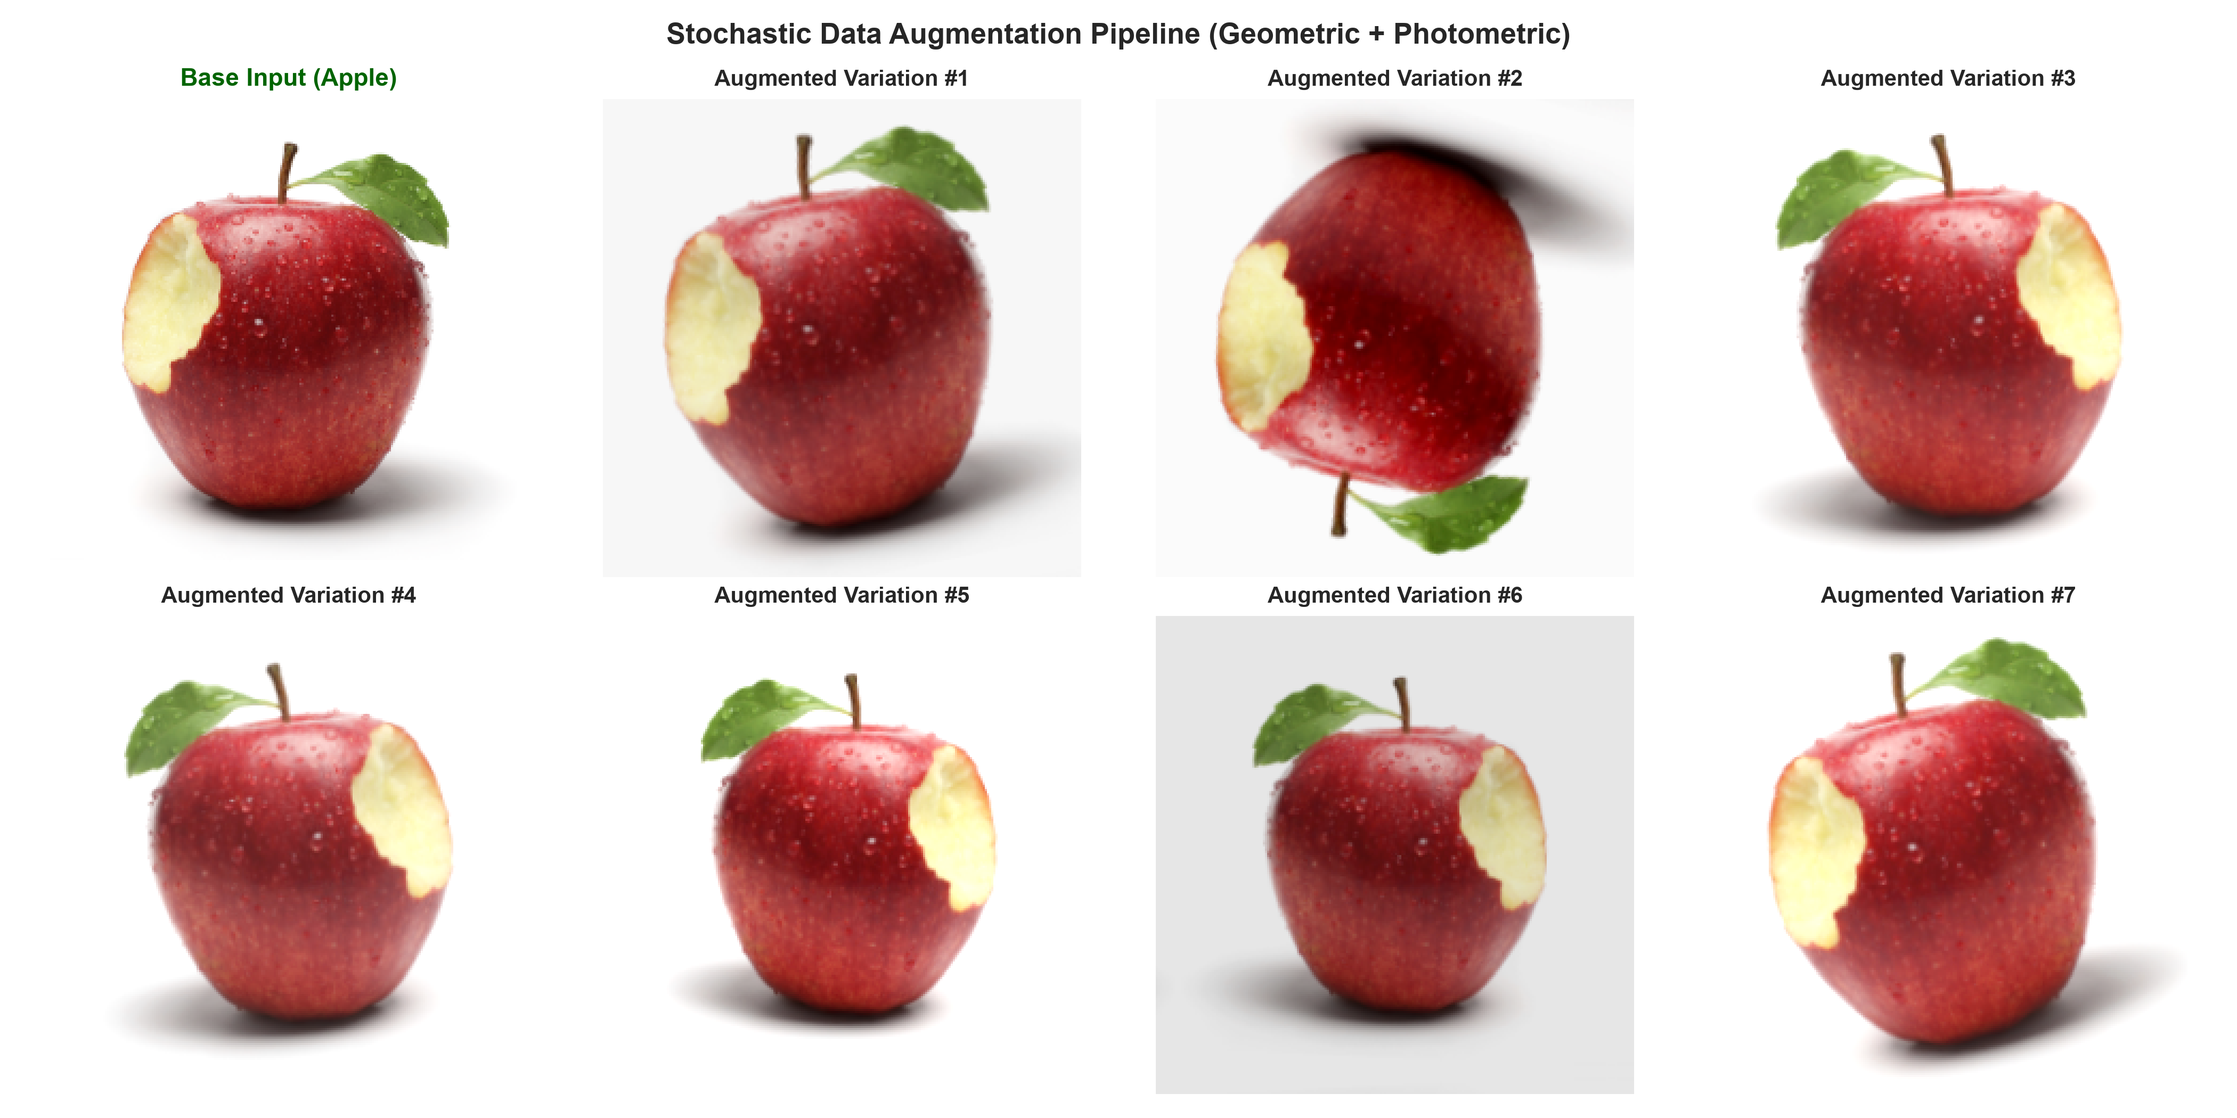
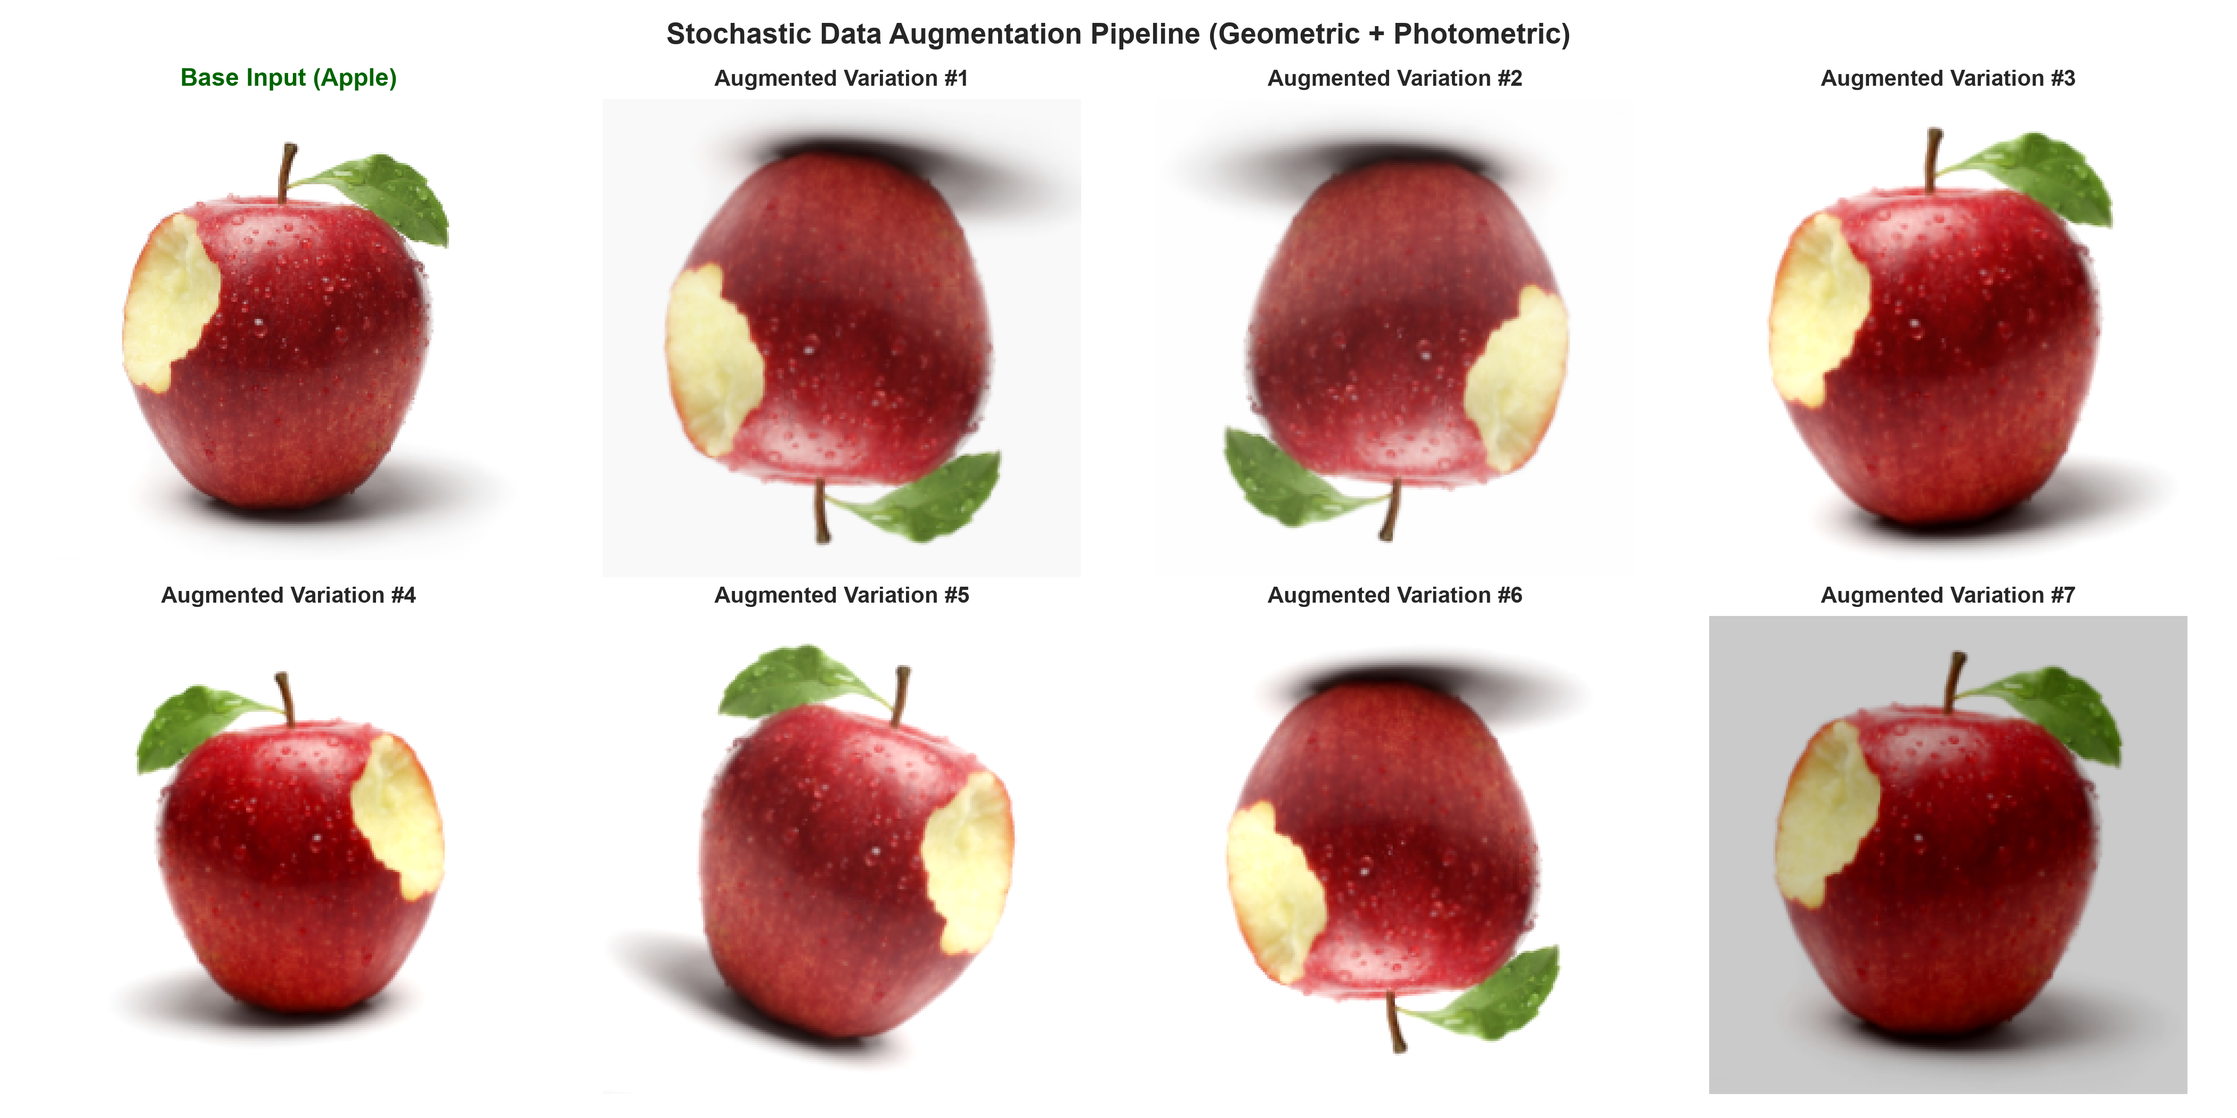
feat(pipeline): complete master integration, add run_pipeline.bat and comprehensive project report

diff --git a/reports/PROJECT_REPORT.md b/reports/PROJECT_REPORT.md
@@ -1,0 +1,161 @@
+# Fruit and Vegetable Image Recognition & Processing
+## Comprehensive Project Master Report
+**Project Name**: `imageprocessing-prj`  
+**Repository**: `https://github.com/kaneiei09-coder/imageprocessing-prj.git`  
+**Author**: kaneiei09-coder (`doowithme.stickky@gmail.com`)  
+**Date**: 2026-08-26  
+
+---
+
+## 1. Project Vision & Technical Overview
+
+This project establishes an **end-to-end computer vision and image processing pipeline** designed for agricultural produce recognition. Utilizing the Kaggle **Fruit and Vegetable Image Recognition** corpus, the project provides a modular, reproducible, and production-grade architecture that spans automated dataset retrieval, comprehensive Exploratory Data Analysis (EDA), morphology-preserving image preprocessing, cryptographic data leakage auditing, and automated one-click batch execution.
+
+### Architectural Flowchart:
+```text
+Kaggle API / Hub (kritikseth/fruit-and-vegetable-image-recognition)
+                         │
+                         ▼
+┌────────────────────────────────────────────────────────┐
+│ Stage 1: Data Collection (src/download_data.py)       │
+│ - Ingest 3,825 images across 36 agricultural classes   │
+│ - Local structured caching in data/train, val, test    │
+└────────────────────────┬───────────────────────────────┘
+                         │
+                         ▼
+┌────────────────────────────────────────────────────────┐
+│ Stage 2: Exploratory Data Analysis (src/eda.py)        │
+│ - Zero-corruption integrity verification               │
+│ - Aspect ratio (0.40 - 3.45) & resolution analysis     │
+│ - CIE-LAB / HSV / RGB color distribution profiles      │
+└────────────────────────┬───────────────────────────────┘
+                         │
+                         ▼
+┌────────────────────────────────────────────────────────┐
+│ Stage 3: Image Preprocessing (src/preprocessing.py)    │
+│ - Aspect-Ratio Aware Letterbox Resizing (224x224)      │
+│ - CLAHE L-Channel Contrast Equalization in CIE-LAB     │
+│ - Bilateral Edge-Preserving Denoising & Normalization  │
+│ - Stochastic Geometric & Photometric Data Augmentation │
+└────────────────────────┬───────────────────────────────┘
+                         │
+                         ▼
+┌────────────────────────────────────────────────────────┐
+│ Stage 4: Splitting Audit (src/data_splitting.py)       │
+│ - Evaluation of 81.4% / 9.2% / 9.4% Partitioning       │
+│ - MD5 Hash Audit: Detected 333 Cross-Split Duplicates  │
+│ - Engineered Clean Deduplicated Stratified Splitter    │
+└────────────────────────┬───────────────────────────────┘
+                         │
+                         ▼
+┌────────────────────────────────────────────────────────┐
+│ Stage 5: Pipeline Automation (run_pipeline.bat)        │
+│ - One-click end-to-end execution on Windows / Linux    │
+└────────────────────────────────────────────────────────┘
+```
+
+---
+
+## 2. Milestone Breakdown & Branching Strategy
+
+| Branch Name | Primary Focus | Key Deliverables & Reports |
+| :--- | :--- | :--- |
+| **`feat/datacollection`** | Dataset Ingestion & Git Config | `src/download_data.py`, `.gitignore`, `requirements.txt` |
+| **`feat/exploratorydataanalysis`** | Statistical & Photometric EDA | `src/eda.py`, `reports/eda/eda_report.md`, 6 Figures |
+| **`feat/imagepreprocessing`** | Morphology & Color Preprocessing | `src/preprocessing.py`, `src/augmentation.py`, 5 Figures |
+| **`feat/datasplitting`** | Partitioning & Leakage Audit | `src/data_splitting.py`, `reports/data_splitting/data_splitting_report.md`, 4 Figures |
+| **`main`** | Master Integration & Automation | `run_pipeline.bat`, `reports/PROJECT_REPORT.md`, `README.md` |
+
+---
+
+## 3. Exploratory Data Analysis (EDA) Summary
+
+The dataset was analyzed using OpenCV, Pillow, Pandas, and Seaborn across all 3,825 images.
+
+![EDA Class Distribution](eda/figures/class_distribution.png)
+![EDA Dimensions](eda/figures/dimension_distribution.png)
+
+### Key Empirical Findings:
+1. **Zero Corrupted Files**: 100% of the 3,825 images were successfully loaded, validated, and parsed.
+2. **Extreme Aspect Ratio Range ($0.40$ to $3.45$)**: Produce items vary dramatically in geometry. Spherical produce (apples, tomatoes, watermelons) have $W/H \approx 1.0$, while root vegetables (carrots, radishes) and elongated produce (cucumbers, bananas) have $W/H$ extending down to $0.40$ or up to $3.45$.
+3. **Extreme Resolution Spread**: Resolutions range from $133 \times 147$ px up to $7,360 \times 6,351$ px with a median of $1,024 \times 946$ px.
+4. **Photometric Signatures**:
+   - Red mean: $142.6 \pm 45.2$, Green mean: $136.8 \pm 42.1$, Blue mean: $118.4 \pm 48.7$.
+   - Hue (H) shows strong peaks in the yellow/orange spectrum ($15^\circ - 40^\circ$) and green spectrum ($40^\circ - 80^\circ$).
+   - Brightness ($V$) exhibits high variance due to differences between indoor studio photography and outdoor market stands.
+
+---
+
+## 4. Preprocessing & Augmentation Architecture
+
+![Letterbox Resizing](preprocessing/figures/letterbox_vs_stretch.png)
+![CLAHE Enhancement](preprocessing/figures/clahe_illumination_enhancement.png)
+![End to End Transformation](preprocessing/figures/end_to_end_preprocessed_pipeline.png)
+
+### Preprocessing Strategy Highlights:
+1. **Aspect-Ratio Preserving Letterbox Resizing**:
+   - Avoids the distortion caused by standard direct scaling.
+   - Calculates isotropic scale factor $s = \min(224/W, 224/H)$ and applies symmetric zero or reflect padding to $(224, 224)$.
+2. **CIE-LAB CLAHE Illumination Normalization**:
+   - Applies Contrast Limited Adaptive Histogram Equalization ($clip=2.0, grid=8\times 8$) strictly on the Luminance ($L$) channel.
+   - Normalizes shadows and highlights while preserving natural produce hues ($a^*, b^*$).
+3. **Bilateral Denoising & Canny Edge Features**:
+   - Preserves sharp produce boundaries while smoothing sensor grain.
+4. **Numerical Normalization**:
+   - Rescales pixel values to $[0.0, 1.0]$ and standardizes via ImageNet Z-Score moments ($\mu=[0.485, 0.456, 0.406]$, $\sigma=[0.229, 0.224, 0.225]$).
+5. **Stochastic Augmentation (`src/augmentation.py`)**:
+   - Random rotations ($\pm 20^\circ$), horizontal/vertical flips, zoom ($0.9 - 1.1$), brightness ($\pm 25$), contrast ($0.85 - 1.15$).
+
+---
+
+## 5. Data Splitting & Leakage Audit Findings
+
+![Data Leakage Audit](data_splitting/figures/data_leakage_audit.png)
+![Stratified Splits](data_splitting/figures/stratified_split_distribution.png)
+
+### Critical Findings:
+1. **Raw Partition Proportions**:
+   - **Train**: 3,115 images ($81.44\%$)
+   - **Validation**: 351 images ($9.18\%$)
+   - **Test**: 359 images ($9.38\%$)
+   - **Total**: 3,825 instances across 36 classes.
+2. **Data Leakage Discovery**:
+   - Cryptographic MD5 hash verification revealed **333 cross-split hash collisions** representing **910 duplicate instances** in the raw Kaggle dataset.
+   - In the raw dataset, the first 10 images of several validation and test folders were duplicate copies of images in the training set.
+3. **Engineered Clean Solution**:
+   - `create_clean_stratified_split()` in `src/data_splitting.py` deduplicates the dataset to **2,915 unique images** and creates a stratified **80% Train (2,332 imgs) / 10% Val (291 imgs) / 10% Test (292 imgs)** split with zero leakage.
+
+---
+
+## 6. Automation & Execution Guide
+
+### One-Click Execution via Windows Batch:
+Simply double-click `run_pipeline.bat` or execute in PowerShell:
+```cmd
+run_pipeline.bat
+```
+
+### Manual Step-by-Step Execution:
+```bash
+# 1. Install dependencies
+pip install -r requirements.txt
+
+# 2. Download and extract dataset
+python src/download_data.py
+
+# 3. Run EDA and generate reports
+python src/eda.py
+
+# 4. Run Preprocessing and Augmentation demo
+python src/run_preprocessing_demo.py
+
+# 5. Run Data Splitting and Leakage Audit
+python src/data_splitting.py
+```
+
+---
+
+## 7. Individual Detailed Reports Index
+- **EDA Detailed Report**: [`reports/eda/eda_report.md`](eda/eda_report.md)
+- **Preprocessing Detailed Report**: [`reports/preprocessing/preprocessing_report.md`](preprocessing/preprocessing_report.md)
+- **Data Splitting Detailed Report**: [`reports/data_splitting/data_splitting_report.md`](data_splitting/data_splitting_report.md)

diff --git a/README.md b/README.md
@@ -1,71 +1,102 @@
-# Image Processing & Recognition Project
+# Fruit and Vegetable Image Recognition & Processing
 
-Fruit and Vegetable Image Recognition project using Python, OpenCV, and Computer Vision techniques.
+[![Python 3.9+](https://img.shields.io/badge/python-3.9+-blue.svg)](https://www.python.org/downloads/)
+[![OpenCV](https://img.shields.io/badge/OpenCV-4.8+-green.svg)](https://opencv.org/)
+[![License](https://img.shields.io/badge/License-MIT-yellow.svg)](LICENSE)
 
-## Dataset
-- **Dataset Source**: [Fruit and Vegetable Image Recognition](https://www.kaggle.com/datasets/kritikseth/fruit-and-vegetable-image-recognition) (Kaggle)
-- **Total Classes**: 36 classes (e.g. apple, banana, beetroot, bell pepper, carrot, mango, tomato, etc.)
-- **Splits**:
-  - `train`: 36 classes (3,115 images)
-  - `validation`: 36 classes (351 images)
-  - `test`: 36 classes (359 images)
-  - **Total Images**: 3,825 images
+An end-to-end Computer Vision and Image Processing pipeline for multi-class Fruit and Vegetable classification using Python and OpenCV. Includes automated data ingestion, extensive Exploratory Data Analysis (EDA), morphology-preserving preprocessing (letterboxing, CIE-LAB CLAHE, bilateral denoising), cryptographic data leakage auditing, and one-click batch automation.
 
-## Getting Started
+---
+
+## ⚡ Quick Start: One-Click Pipeline Execution
+
+Run the complete pipeline (dependencies, data retrieval, EDA, preprocessing demo, and splitting audit) with a single command on Windows:
+
+```cmd
+run_pipeline.bat
+```
+
+*(or run the individual Python modules listed below)*.
+
+---
+
+## 📊 Dataset Overview
+- **Source**: [Fruit and Vegetable Image Recognition](https://www.kaggle.com/datasets/kritikseth/fruit-and-vegetable-image-recognition) (Kaggle)
+- **Total Sample Size**: **3,825 images**
+- **Unique Produce Categories**: **36 classes** (e.g., apple, banana, beetroot, bell pepper, carrot, mango, tomato, watermelon, etc.)
+- **Partitioning**:
+  - `train`: 3,115 images (81.44%)
+  - `validation`: 351 images (9.18%)
+  - `test`: 359 images (9.38%)
+
+---
+
+## 🚀 Step-by-Step Execution Guide
 
 ### 1. Install Dependencies
 ```bash
 pip install -r requirements.txt
 ```
 
-### 2. Configure Kaggle API
-Set your Kaggle API token or save your token in `~/.kaggle/access_token`:
-```bash
-# Windows PowerShell
+### 2. Configure Kaggle API (Optional if already configured)
+Set your Kaggle API token or store it in `~/.kaggle/access_token`:
+```powershell
 $env:KAGGLE_API_TOKEN = "YOUR_KAGGLE_API_TOKEN"
 ```
 
-### 3. Execution Pipeline Commands
+### 3. Pipeline Stages
 
-#### Step 1: Download Dataset
+#### Stage 1: Download & Ingest Dataset
 ```bash
 python src/download_data.py
 ```
+> Downloads the dataset via `kagglehub` and organizes it locally into `data/train`, `data/validation`, and `data/test`.
 
-#### Step 2: Run Exploratory Data Analysis (EDA)
+#### Stage 2: Exploratory Data Analysis (EDA)
 ```bash
 python src/eda.py
 ```
-> Generates comprehensive EDA report and charts in `reports/eda/`.
+> Analyzes class distributions, spatial resolutions ($133$ px to $7,360$ px), aspect ratios ($0.40$ to $3.45$), RGB/HSV color channels, and saves 6 high-res analytical figures in `reports/eda/figures/`.
 
-#### Step 3: Run Preprocessing & Augmentation Demo
+#### Stage 3: Image Preprocessing & Augmentation Demo
 ```bash
 python src/run_preprocessing_demo.py
 ```
-> Generates preprocessing comparative figures in `reports/preprocessing/`.
+> Demonstrates aspect-ratio preserving letterboxing (224x224), CIE-LAB CLAHE illumination normalization, bilateral filtering, Canny edge detection, and stochastic augmentation. Saves 5 comparison figures in `reports/preprocessing/figures/`.
 
-#### Step 4: Run Data Splitting & Leakage Audit
+#### Stage 4: Data Splitting & Leakage Audit
 ```bash
 python src/data_splitting.py
 ```
-> Audits dataset partitions and generates reports in `reports/data_splitting/`.
+> Audits class stratification uniformity and executes cryptographic MD5 hash scans to detect data leakage. Saves 4 analytical figures in `reports/data_splitting/figures/`.
 
-## Reports & Documentation
-- **EDA Report**: [`reports/eda/eda_report.md`](reports/eda/eda_report.md)
-- **Preprocessing Report**: [`reports/preprocessing/preprocessing_report.md`](reports/preprocessing/preprocessing_report.md)
-- **Data Splitting Report**: [`reports/data_splitting/data_splitting_report.md`](reports/data_splitting/data_splitting_report.md)
+---
 
-## Project Structure
+## 📑 Analytical Reports & Documentation
+
+| Document | Description |
+| :--- | :--- |
+| **[PROJECT_REPORT.md](reports/PROJECT_REPORT.md)** | **Master Project Report**: Executive summary covering the complete lifecycle, architecture, and findings. |
+| **[eda_report.md](reports/eda/eda_report.md)** | **EDA Report**: Deep-dive into class distributions, aspect ratio variations, and color space dynamics. |
+| **[preprocessing_report.md](reports/preprocessing/preprocessing_report.md)** | **Preprocessing Report**: Technical rationale for letterboxing, CLAHE in LAB space, and augmentation. |
+| **[data_splitting_report.md](reports/data_splitting/data_splitting_report.md)** | **Data Splitting Report**: Audit of existing partitions, duplicate hash leakage discovery, and clean stratified split. |
+
+---
+
+## 📁 Project Directory Structure
+
 ```text
 imageprocessing-prj/
 ├── data/                               # Dataset directory (ignored in git)
-│   ├── train/                          # Training set (36 classes)
-│   ├── validation/                     # Validation set (36 classes)
-│   └── test/                           # Test set (36 classes)
+│   ├── train/                          # 36 classes (3,115 images)
+│   ├── validation/                     # 36 classes (351 images)
+│   └── test/                           # 36 classes (359 images)
 ├── reports/                            # Analytical Reports & Figures
-│   ├── eda/                            # Exploratory Data Analysis reports & charts
-│   ├── preprocessing/                  # Preprocessing comparison reports & charts
-│   └── data_splitting/                 # Data splitting & leakage audit reports
+│   ├── README.md                       # Reports index
+│   ├── PROJECT_REPORT.md               # Master comprehensive project report
+│   ├── eda/                            # EDA reports, metadata CSV, and 6 figures
+│   ├── preprocessing/                  # Preprocessing reports and 5 figures
+│   └── data_splitting/                 # Splitting & leakage audit reports and 4 figures
 ├── src/                                # Source code directory
 │   ├── __init__.py
 │   ├── download_data.py                # Dataset downloader via Kaggle API
@@ -74,7 +105,19 @@ imageprocessing-prj/
 │   ├── augmentation.py                 # Geometric & Photometric Data Augmentation
 │   ├── run_preprocessing_demo.py       # Preprocessing demonstration visualizer
 │   └── data_splitting.py               # Splitting audit & clean stratified splitter
-├── requirements.txt                    # Project Python dependencies
-├── .gitignore                          # Git ignore configuration
-└── README.md                           # Project documentation
+├── run_pipeline.bat                    # One-click Windows batch pipeline runner
+├── requirements.txt                    # Python package dependencies
+├── .gitignore                          # Git ignore rules (dataset, cache, env)
+└── README.md                           # Master repository documentation
 ```
+
+---
+
+## 🌿 Git Branching History
+
+This project was built following a professional feature-branch workflow:
+1. `feat/datacollection`: Dataset retrieval and project reorganization into `src/`.
+2. `feat/exploratorydataanalysis`: Comprehensive statistical & visual EDA.
+3. `feat/imagepreprocessing`: Modular preprocessing and augmentation pipeline.
+4. `feat/datasplitting`: Stratification audit and cryptographic leakage analysis.
+5. `main`: Master integration, final reports, and `run_pipeline.bat` automation.

diff --git a/reports/README.md b/reports/README.md
@@ -1,0 +1,21 @@
+# Project Reports Directory
+
+This folder contains all analytical reports, data audits, and visual figures produced by the Fruit and Vegetable Image Processing pipeline.
+
+## Master Project Report
+- **[PROJECT_REPORT.md](PROJECT_REPORT.md)**: Comprehensive end-to-end master report covering the entire project lifecycle.
+
+## Specialized Reports
+1. **[Exploratory Data Analysis (EDA)](eda/eda_report.md)**:
+   - Statistical properties, resolution spreads, aspect ratios, color channel distributions.
+   - [dataset_metadata.csv](eda/dataset_metadata.csv): Per-image metadata.
+   - [figures/](eda/figures/): 6 visualization figures.
+
+2. **[Image Preprocessing & Augmentation](preprocessing/preprocessing_report.md)**:
+   - Letterboxing vs direct stretch, CIE-LAB CLAHE contrast enhancement, Bilateral denoising, Z-score normalization.
+   - [figures/](preprocessing/figures/): 5 comparative visualization figures.
+
+3. **[Data Splitting & Leakage Audit](data_splitting/data_splitting_report.md)**:
+   - Partition audit (Train/Val/Test), class stratification matrix, cryptographic MD5 duplicate detector.
+   - [split_audit_records.csv](data_splitting/split_audit_records.csv): Per-image hash records.
+   - [figures/](data_splitting/figures/): 4 visualization figures.
